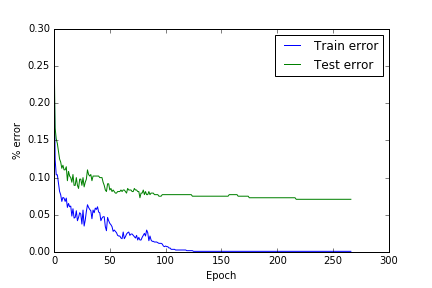
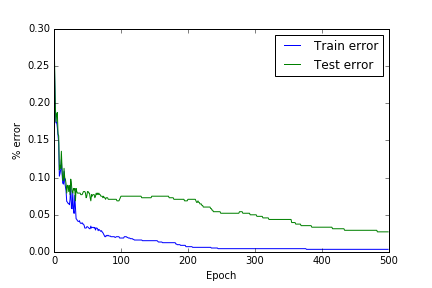
Theano exercises finished

diff --git a/lpineda/tp2/ex1b2.py b/lpineda/tp2/ex1b2.py
@@ -13,7 +13,6 @@ rng = numpy.random
 
 #N = 400                                   # training sample size
 feats = 784*3                               # number of input variables
-n_hidden = 100  # number of neurons in the hidden layer
 
 # generate a dataset: D = (input_values, target_class)
 #D = (rng.randn(N, feats), rng.randint(size=N, low=0, high=2))
@@ -29,8 +28,6 @@ D2 = D2/np.max(D2)
 n_motorbikes = len(D2[:,1])
 D = (np.vstack((D1, D2)), np.hstack((np.zeros(n_airplanes), np.ones(n_motorbikes))))
 
-
-
 # Declare Theano symbolic variables
 x = T.dmatrix("x")
 y = T.dvector("y")
@@ -40,11 +37,9 @@ y = T.dvector("y")
 # this and the following bias variable b
 # are shared so they keep their values
 # between training iterations (updates)
-wh = theano.shared(rng.randn(feats, n_hidden), name="wh") #hidden layer weights W
-w = theano.shared(rng.randn(n_hidden), name="w")
+w = theano.shared(rng.randn(feats), name="w")
 
 # initialize the bias term
-bh = theano.shared(np.zeros(n_hidden), name="bh") #hidden layer biases b
 b = theano.shared(0., name="b")
 
 #print("Initial model:")
@@ -52,13 +47,11 @@ b = theano.shared(0., name="b")
 #print(b.get_value())
 
 # Construct Theano expression graph
-h_lyr = T.dot(x,wh) + bh # hidden layer propagation
-ph_1 = T.switch(h_lyr<0, 0, h_lyr) # ReLU activation
-p_1 = 1 / (1 + T.exp(-T.dot(ph_1, w) - b))   # Probability that target = 1
+p_1 = 1 / (1 + T.exp(-T.dot(x, w) - b))   # Probability that target = 1
 prediction = p_1 > 0.5                    # The prediction thresholded
 xent = -y * T.log(p_1) - (1-y) * T.log(1-p_1) # Cross-entropy loss function
-cost = xent.mean() + 0.01 * (w ** 2).sum() + 0.01 * (wh ** 2).sum() # The cost to minimize
-gw, gb, gwh, gbh = T.grad(cost, [w, b, wh, bh])             # Compute the gradient of the cost
+cost = xent.mean() + 0.01 * (w ** 2).sum()  # The cost to minimize
+gw, gb = T.grad(cost, [w, b])             # Compute the gradient of the cost
                                           # w.r.t weight vector w and
                                           # bias term b
                                           # (we shall return to this in a
@@ -69,8 +62,8 @@ lrn_rate = 0.01
 train = theano.function(
           inputs=[x,y],
           outputs=[prediction, xent],
-          updates=((w, w - lrn_rate * gw), (b, b - lrn_rate * gb),
-                   (wh, wh - lrn_rate * gwh), (bh, bh - lrn_rate * gbh)))
+          updates=((w, w - lrn_rate * gw), (b, b - lrn_rate * gb)))
+          
 predict = theano.function(inputs=[x], outputs=prediction)
 
 # Train
@@ -110,7 +103,7 @@ plt.plot(range(len(test_error)),test_error)
 plt.legend(['Train error','Test error'])
 plt.xlabel('Epoch')
 plt.ylabel('% error')
-plt.savefig('ex1b3.png')
+plt.savefig('ex1b2.png')
 
 #print("Final model:")
 #print(w.get_value())

diff --git a/lpineda/tp2/ex1b1.py b/lpineda/tp2/ex1b1.py
@@ -1,0 +1,64 @@
+import numpy
+import theano
+import theano.tensor as T
+rng = numpy.random
+
+import sys
+sys.path.append("..")
+from cifasis.dataset import *
+
+N = 400                                   # training sample size
+feats = 784                               # number of input variables
+
+# generate a dataset: D = (input_values, target_class)
+D = (rng.randn(N, feats), rng.randint(size=N, low=0, high=2))
+training_steps = 10000
+
+# Declare Theano symbolic variables
+x = T.dmatrix("x")
+y = T.dvector("y")
+
+# initialize the weight vector w randomly
+#
+# this and the following bias variable b
+# are shared so they keep their values
+# between training iterations (updates)
+w = theano.shared(rng.randn(feats), name="w")
+
+# initialize the bias term
+b = theano.shared(0., name="b")
+
+print("Initial model:")
+print(w.get_value())
+print(b.get_value())
+
+# Construct Theano expression graph
+p_1 = 1 / (1 + T.exp(-T.dot(x, w) - b))   # Probability that target = 1
+prediction = p_1 > 0.5                    # The prediction thresholded
+xent = -y * T.log(p_1) - (1-y) * T.log(1-p_1) # Cross-entropy loss function
+cost = xent.mean() + 0.01 * (w ** 2).sum()# The cost to minimize
+gw, gb = T.grad(cost, [w, b])             # Compute the gradient of the cost
+                                          # w.r.t weight vector w and
+                                          # bias term b
+                                          # (we shall return to this in a
+                                          # following section of this tutorial)
+
+# Compile
+train = theano.function(
+          inputs=[x,y],
+          outputs=[prediction, xent],
+          updates=((w, w - 0.1 * gw), (b, b - 0.1 * gb)))
+predict = theano.function(inputs=[x], outputs=prediction)
+
+# Train
+for i in range(training_steps):
+    for batch in get_mini_batches((D[0], D[1]), size=64):
+        pred, err = train(batch[0], batch[1])
+
+print("Final model:")
+print(w.get_value())
+print(b.get_value())
+print("target values for D:")
+print(D[1])
+print("prediction on D:")
+print(predict(D[0]))
